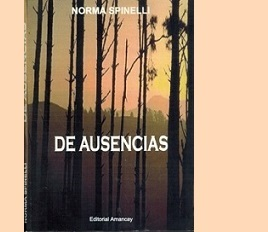
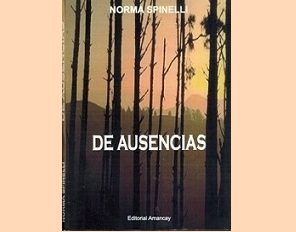
arreglo de-ausencias.html

diff --git a/css/main.css b/css/main.css
@@ -193,16 +193,15 @@ nav {
 .imagen_principal_mundos {
   float: left;
   padding-top: 3px;
-  padding-right: 20px;
   width: 240;
   height: 240;
-  margin-left: 3%; }
+  margin-left: 1%; }
 
 .parrafo_mundos {
   font-size: large;
   margin-top: 2%;
   margin-bottom: 7%;
-  margin-left: 3%;
+  margin-left: 1%;
   align-items: flex-end; }
 
 .imagen_principal_ausencias {
@@ -210,6 +209,7 @@ nav {
   padding-top: 2px;
   width: 240;
   height: 240;
+  margin-right: 1%;
   margin-left: 3%;
   margin-top: 1.5%; }
 
@@ -217,7 +217,7 @@ nav {
   font-size: large;
   margin-top: 2%;
   margin-bottom: 4.5%;
-  margin-left: 4%;
+  margin-left: 1%;
   padding-bottom: 6.5%;
   align-items: flex-end; }
 

diff --git a/scss/_mundos-posibles.scss b/scss/_mundos-posibles.scss
@@ -5,16 +5,15 @@
 .imagen_principal_mundos{
     float:left;
     padding-top: 3px;
-    padding-right: 20px;
     width: 240;
     height: 240;
-    margin-left: 3%;
+    margin-left: 1%;
 }
 
 .parrafo_mundos{
     font-size: large;
     margin-top:2%;
     margin-bottom: 7%;
-    margin-left: 3%;
+    margin-left: 1%;
     align-items: flex-end;
 }

diff --git a/scss/_de-ausencias.scss b/scss/_de-ausencias.scss
@@ -6,6 +6,7 @@
     padding-top: 2px;
     width: 240;
     height: 240;
+    margin-right: 1%;
     margin-left: 3%;
     margin-top: 1.5%;
 }
@@ -15,7 +16,7 @@
     font-size: large;
     margin-top:2%;
     margin-bottom: 4.5%;
-    margin-left: 4%;
+    margin-left: 1%;
     padding-bottom: 6.5%;
     align-items: flex-end;
     
